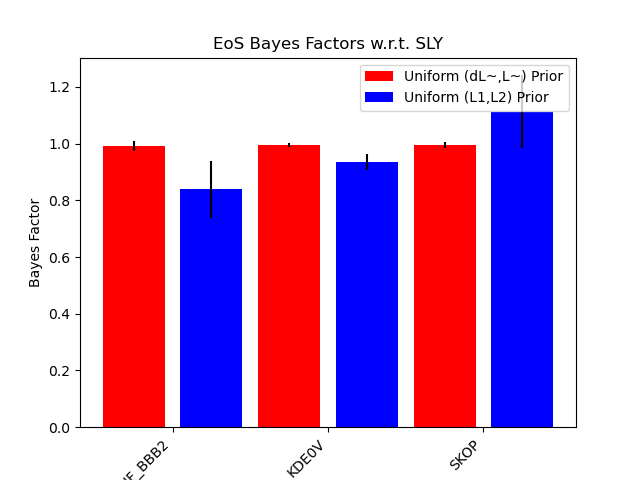
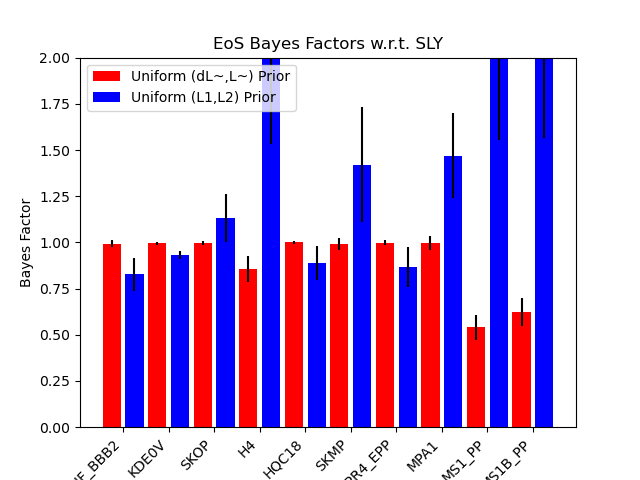
Adjusting Prior bar plots 7.

diff --git a/year2/PhenomTaylorCompare/dist_plot.py b/year2/PhenomTaylorCompare/dist_plot.py
@@ -109,8 +109,8 @@ def BF_barplot(uniformLTs=False):
     labels = ["Uniform (dL~,L~) Prior", "Uniform (L1,L2) Prior"]
 
     methods = [Amodsel,Mmodsel]
-    #eosList = ["BHF_BBB2","KDE0V","SKOP","H4","HQC18","SKMP","APR4_EPP","MPA1","MS1_PP","MS1B_PP"]
-    eosList = ["BHF_BBB2","KDE0V","SKOP"]
+    eosList = ["BHF_BBB2","KDE0V","SKOP","H4","HQC18","SKMP","APR4_EPP","MPA1","MS1_PP","MS1B_PP"]
+    #eosList = ["BHF_BBB2","KDE0V","SKOP"]
     methods_BFs = []
     methods_uncerts = []
     for method in methods:
